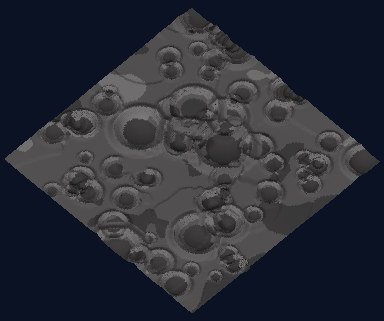
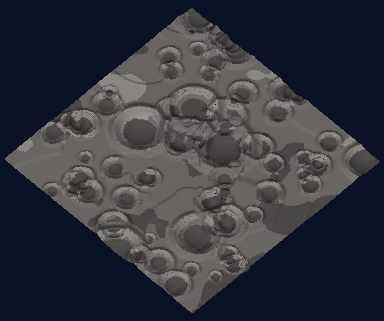
Brighten Ceres: per-world surface tint, wired through the shader
The voxel shader always supported a per-world tint but it was pinned
to white. A new world_tint table lifts Ceres' near-coal regolith
(linear x1.7, slightly warm) for battlefield legibility; every other
world stays as-is. The lobby's 3D preview folds the same tint into its
palette (gamma-adjusted), and ceres.png is re-baked to match.

https://claude.ai/code/session_01XCVTLdNTuz1PGGfKGqDret

diff --git a/apps/client/src/voxel.rs b/apps/client/src/voxel.rs
@@ -632,6 +632,27 @@ pub fn active_lava() -> bool {
     SELECTED.with(|s| s.get()) == Some(7)
 }
 
+/// Surface brightness tint (linear-light rgb multiplier) for world `idx`.
+/// Most worlds draw their tile set as-is; the near-coal carbonaceous
+/// regolith gets a readability lift (real Ceres is one of the darkest
+/// surfaces in the system, but battlefield legibility wins over albedo
+/// realism).
+fn world_tint(idx: usize) -> [f32; 3] {
+    match idx {
+        1 => [1.70, 1.66, 1.60], // Ceres: lift, slightly warm
+        _ => [1.0, 1.0, 1.0],
+    }
+}
+
+/// [`world_tint`] of the active world (white for the Earthlike default).
+#[cfg_attr(not(target_arch = "wasm32"), allow(dead_code))] // driven by the web lobby
+pub fn active_tint() -> [f32; 3] {
+    SELECTED
+        .with(|s| s.get())
+        .map(world_tint)
+        .unwrap_or([1.0, 1.0, 1.0])
+}
+
 #[cfg(test)]
 mod tests {
     use super::*;
@@ -722,12 +743,15 @@ mod tests {
         };
 
         // Per-world palette: the swatch split into the four tile slots, plus
-        // lava for the hazard channel.
+        // lava for the hazard channel. The world tint is a linear-light
+        // multiplier in the shader; fold it into these sRGB-ish tones via
+        // the gamma so the preview brightness matches the battlefield.
         let sw = MAP_SWATCH[idx];
+        let t = world_tint(idx);
         let swf = [
-            sw[0] as f32 / 255.0,
-            sw[1] as f32 / 255.0,
-            sw[2] as f32 / 255.0,
+            sw[0] as f32 / 255.0 * t[0].powf(1.0 / 2.2),
+            sw[1] as f32 / 255.0 * t[1].powf(1.0 / 2.2),
+            sw[2] as f32 / 255.0 * t[2].powf(1.0 / 2.2),
         ];
         let tone = |m: f32, g: f32| {
             [

diff --git a/apps/client/src/gfx.rs b/apps/client/src/gfx.rs
@@ -1455,8 +1455,9 @@ impl Gfx {
             0.0
         };
         let liquid = crate::voxel::active_liquid().unwrap_or(EARTH_WATER);
+        let t = crate::voxel::active_tint();
         self.write_world(WorldUniform {
-            tint: [1.0, 1.0, 1.0, lava],
+            tint: [t[0], t[1], t[2], lava],
             liquid,
         });
     }
